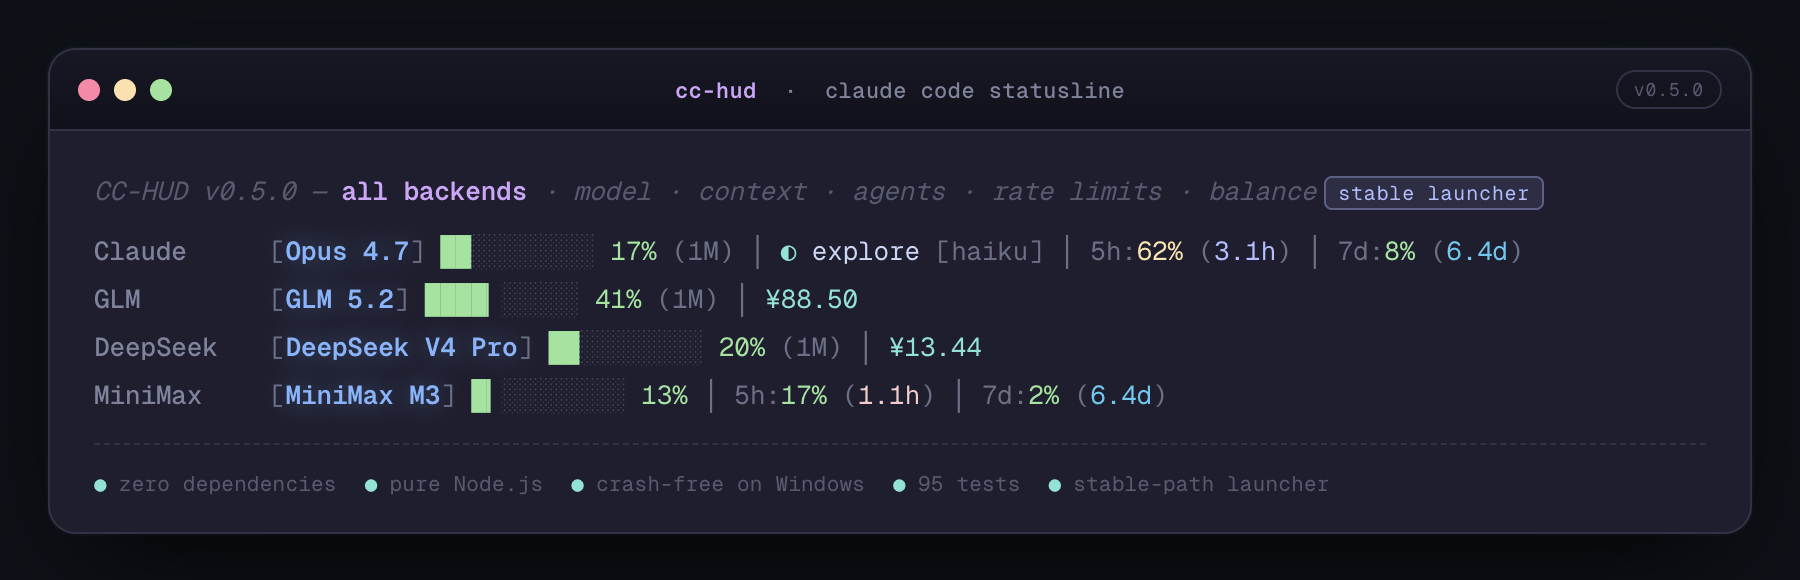
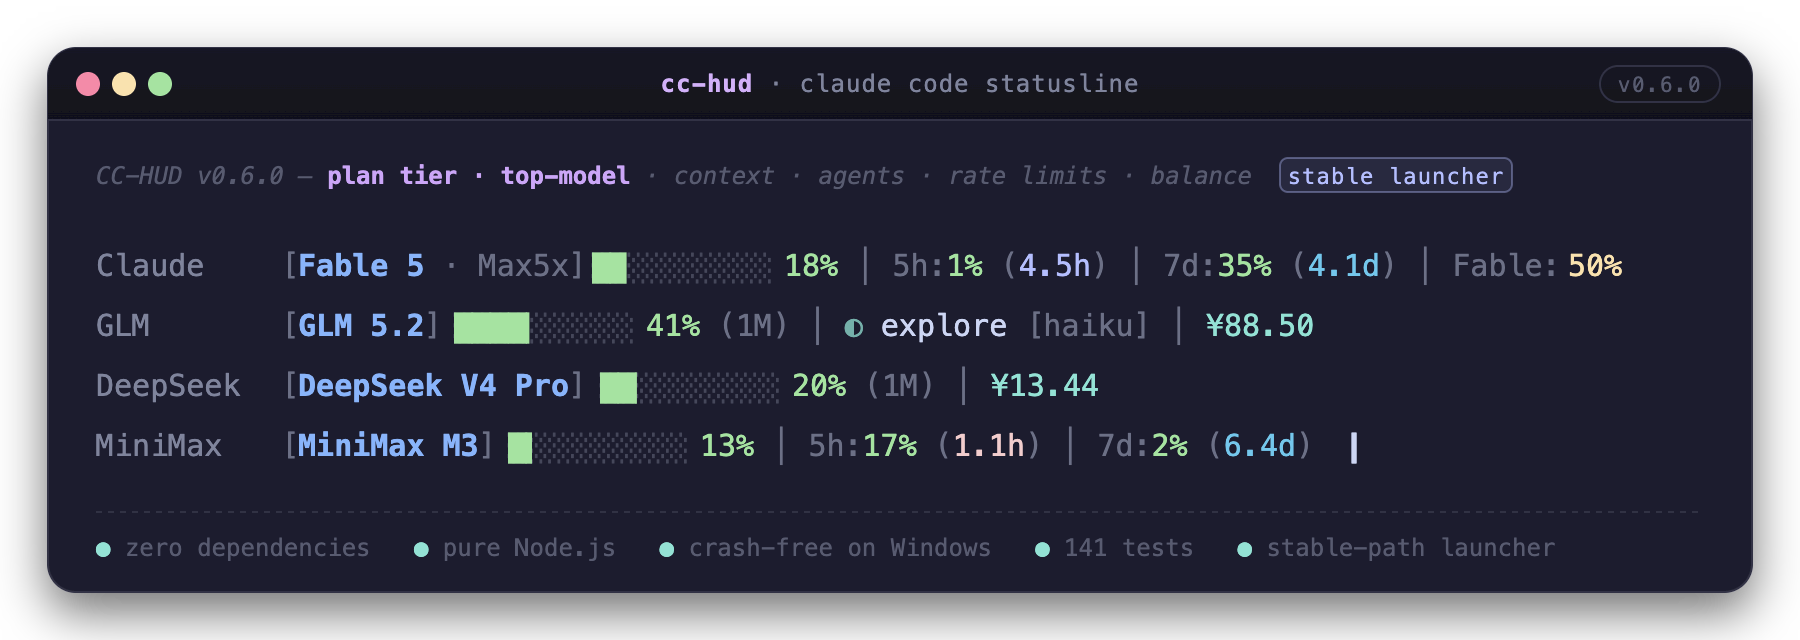
docs(preview): showcase v0.6.0 plan tier + top-model gauge in animated SVG
- Claude row is now the marquee: [Fable 5 · Max5x] with a plan-tier badge
  that fades in as the context bar fills, plus a Fable: 49→50→51% weekly
  gauge ticker synced to the 6s cycle
- agent pulse (◐ explore [haiku]) moved to the GLM row
- version pills v0.6.0, subtitle highlights plan tier · top-model,
  footer 95 → 141 tests
- PNG fallback re-rendered at t=3.5s (2x); README URLs cache-busted ?v=0.6.0

Changed region(s): [[0.0, 0.0, 1.0, 1.0], [0.0622, 0.2483, 0.5289, 0.3414]]

diff --git a/README.md b/README.md
@@ -14,8 +14,8 @@
 
 <p align="center">
   <picture>
-    <source srcset="https://raw.githubusercontent.com/WaterTian/cc-hud/main/cc-hud-preview.svg" type="image/svg+xml" />
-    <img src="https://raw.githubusercontent.com/WaterTian/cc-hud/main/cc-hud-preview.png" alt="cc-hud preview — model, context bar, agents, rate limits, balance" width="900" />
+    <source srcset="https://raw.githubusercontent.com/WaterTian/cc-hud/main/cc-hud-preview.svg?v=0.6.0" type="image/svg+xml" />
+    <img src="https://raw.githubusercontent.com/WaterTian/cc-hud/main/cc-hud-preview.png?v=0.6.0" alt="cc-hud preview — model, plan tier, context bar, agents, rate limits, top-model gauge, balance" width="900" />
   </picture>
 </p>
 